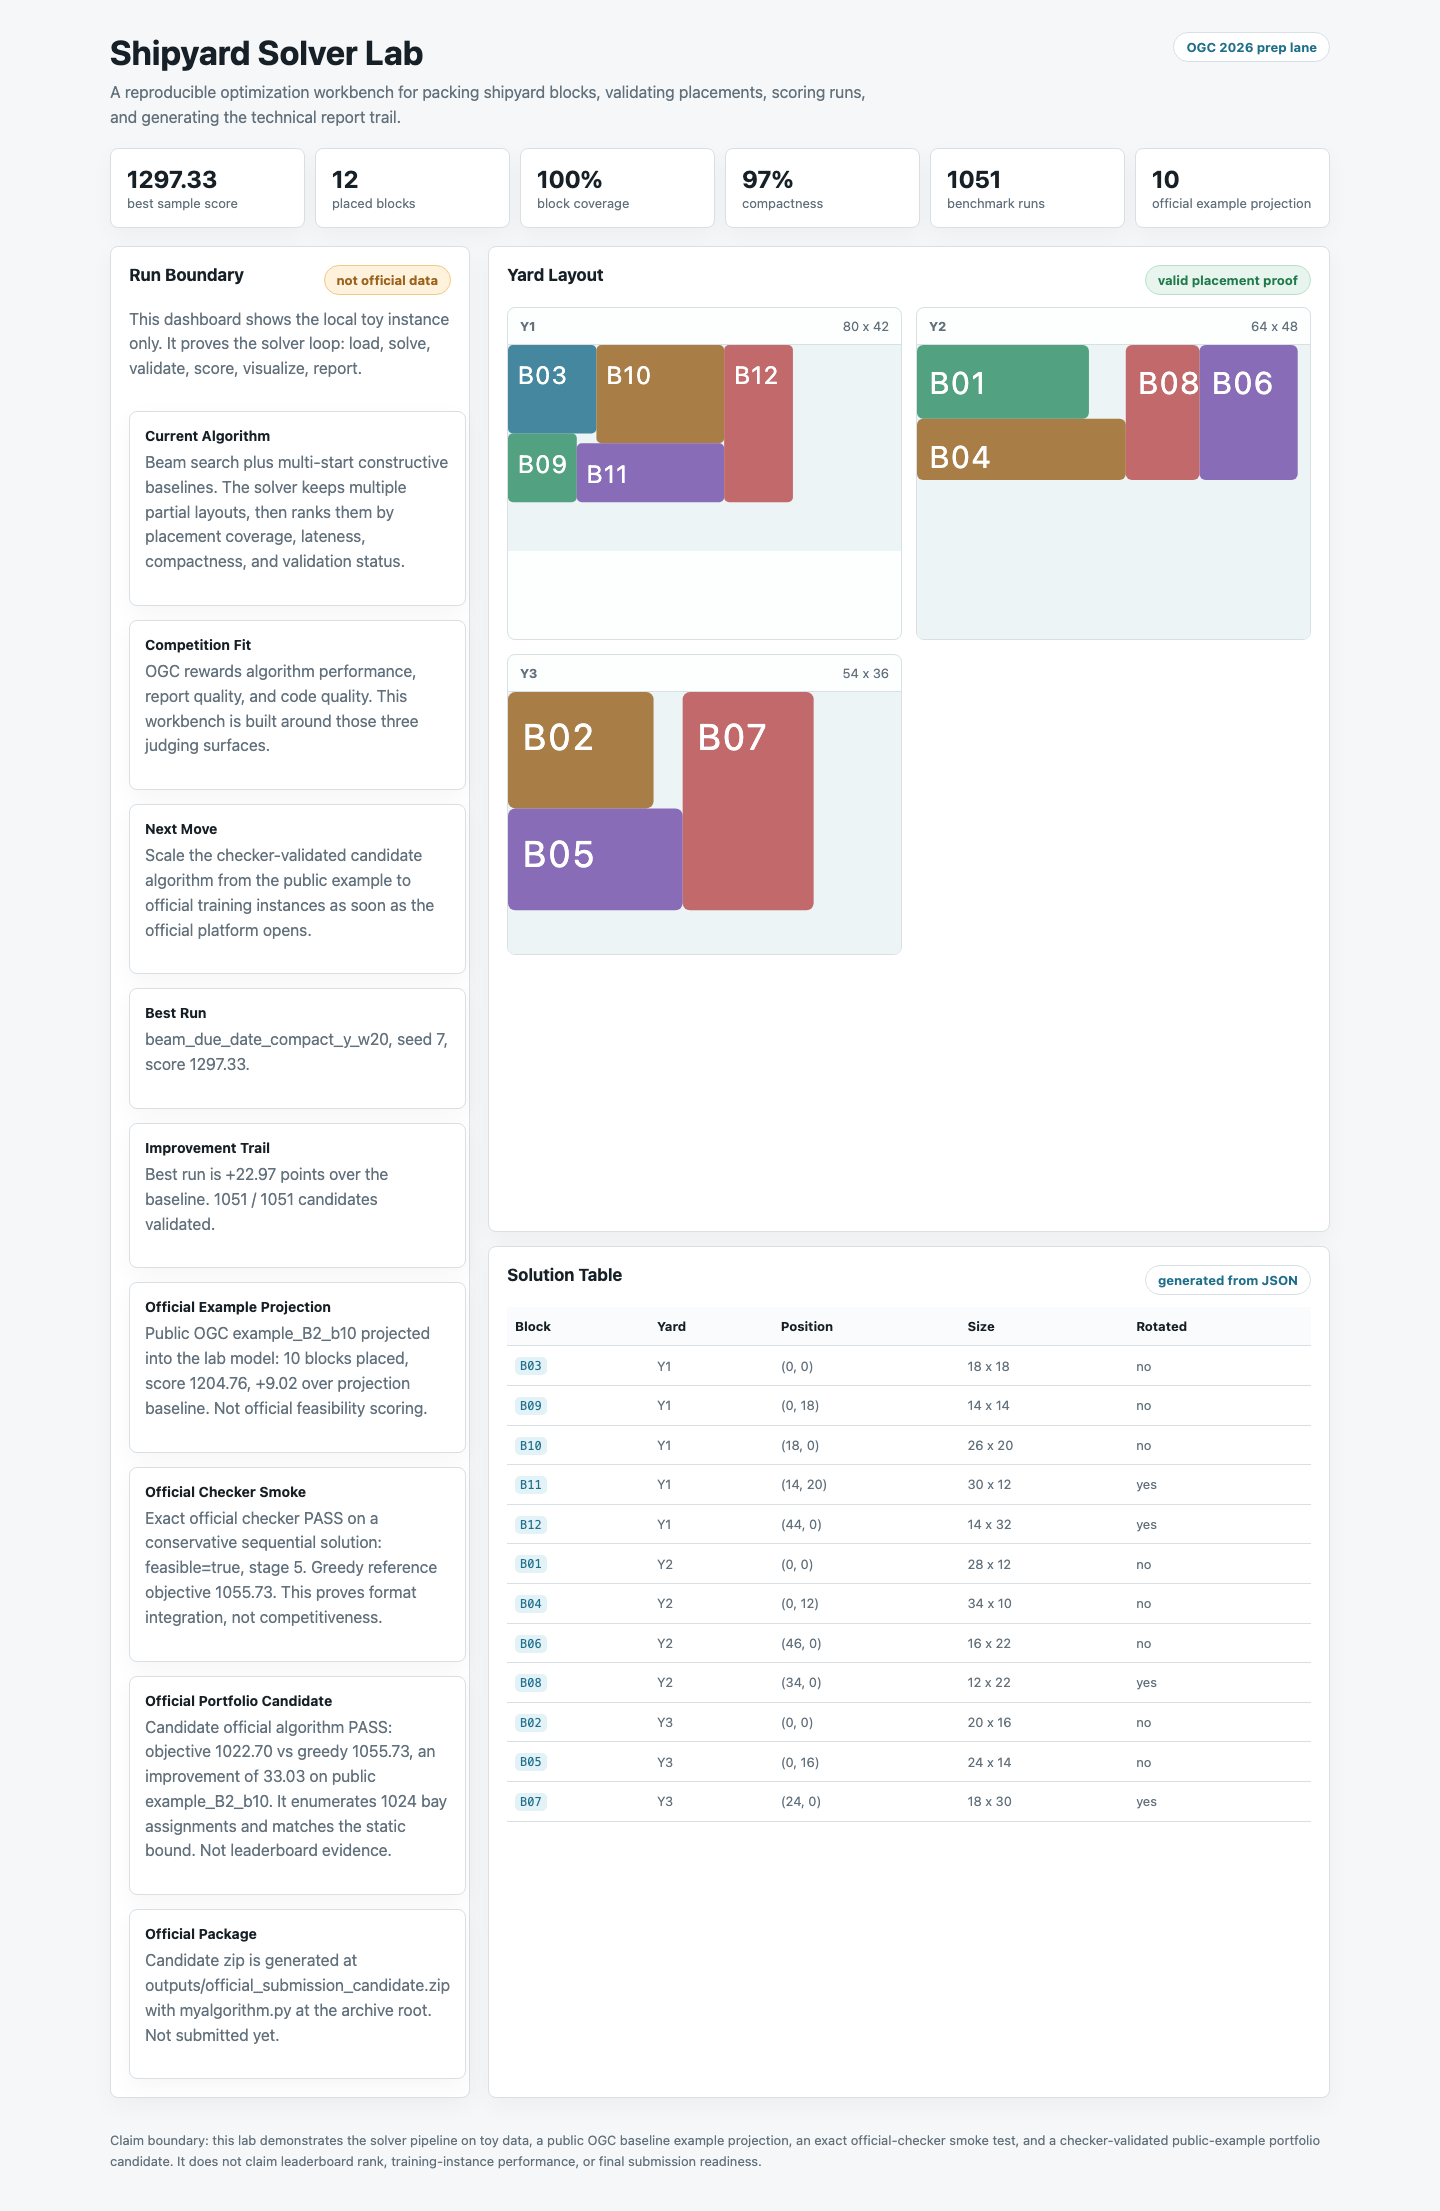
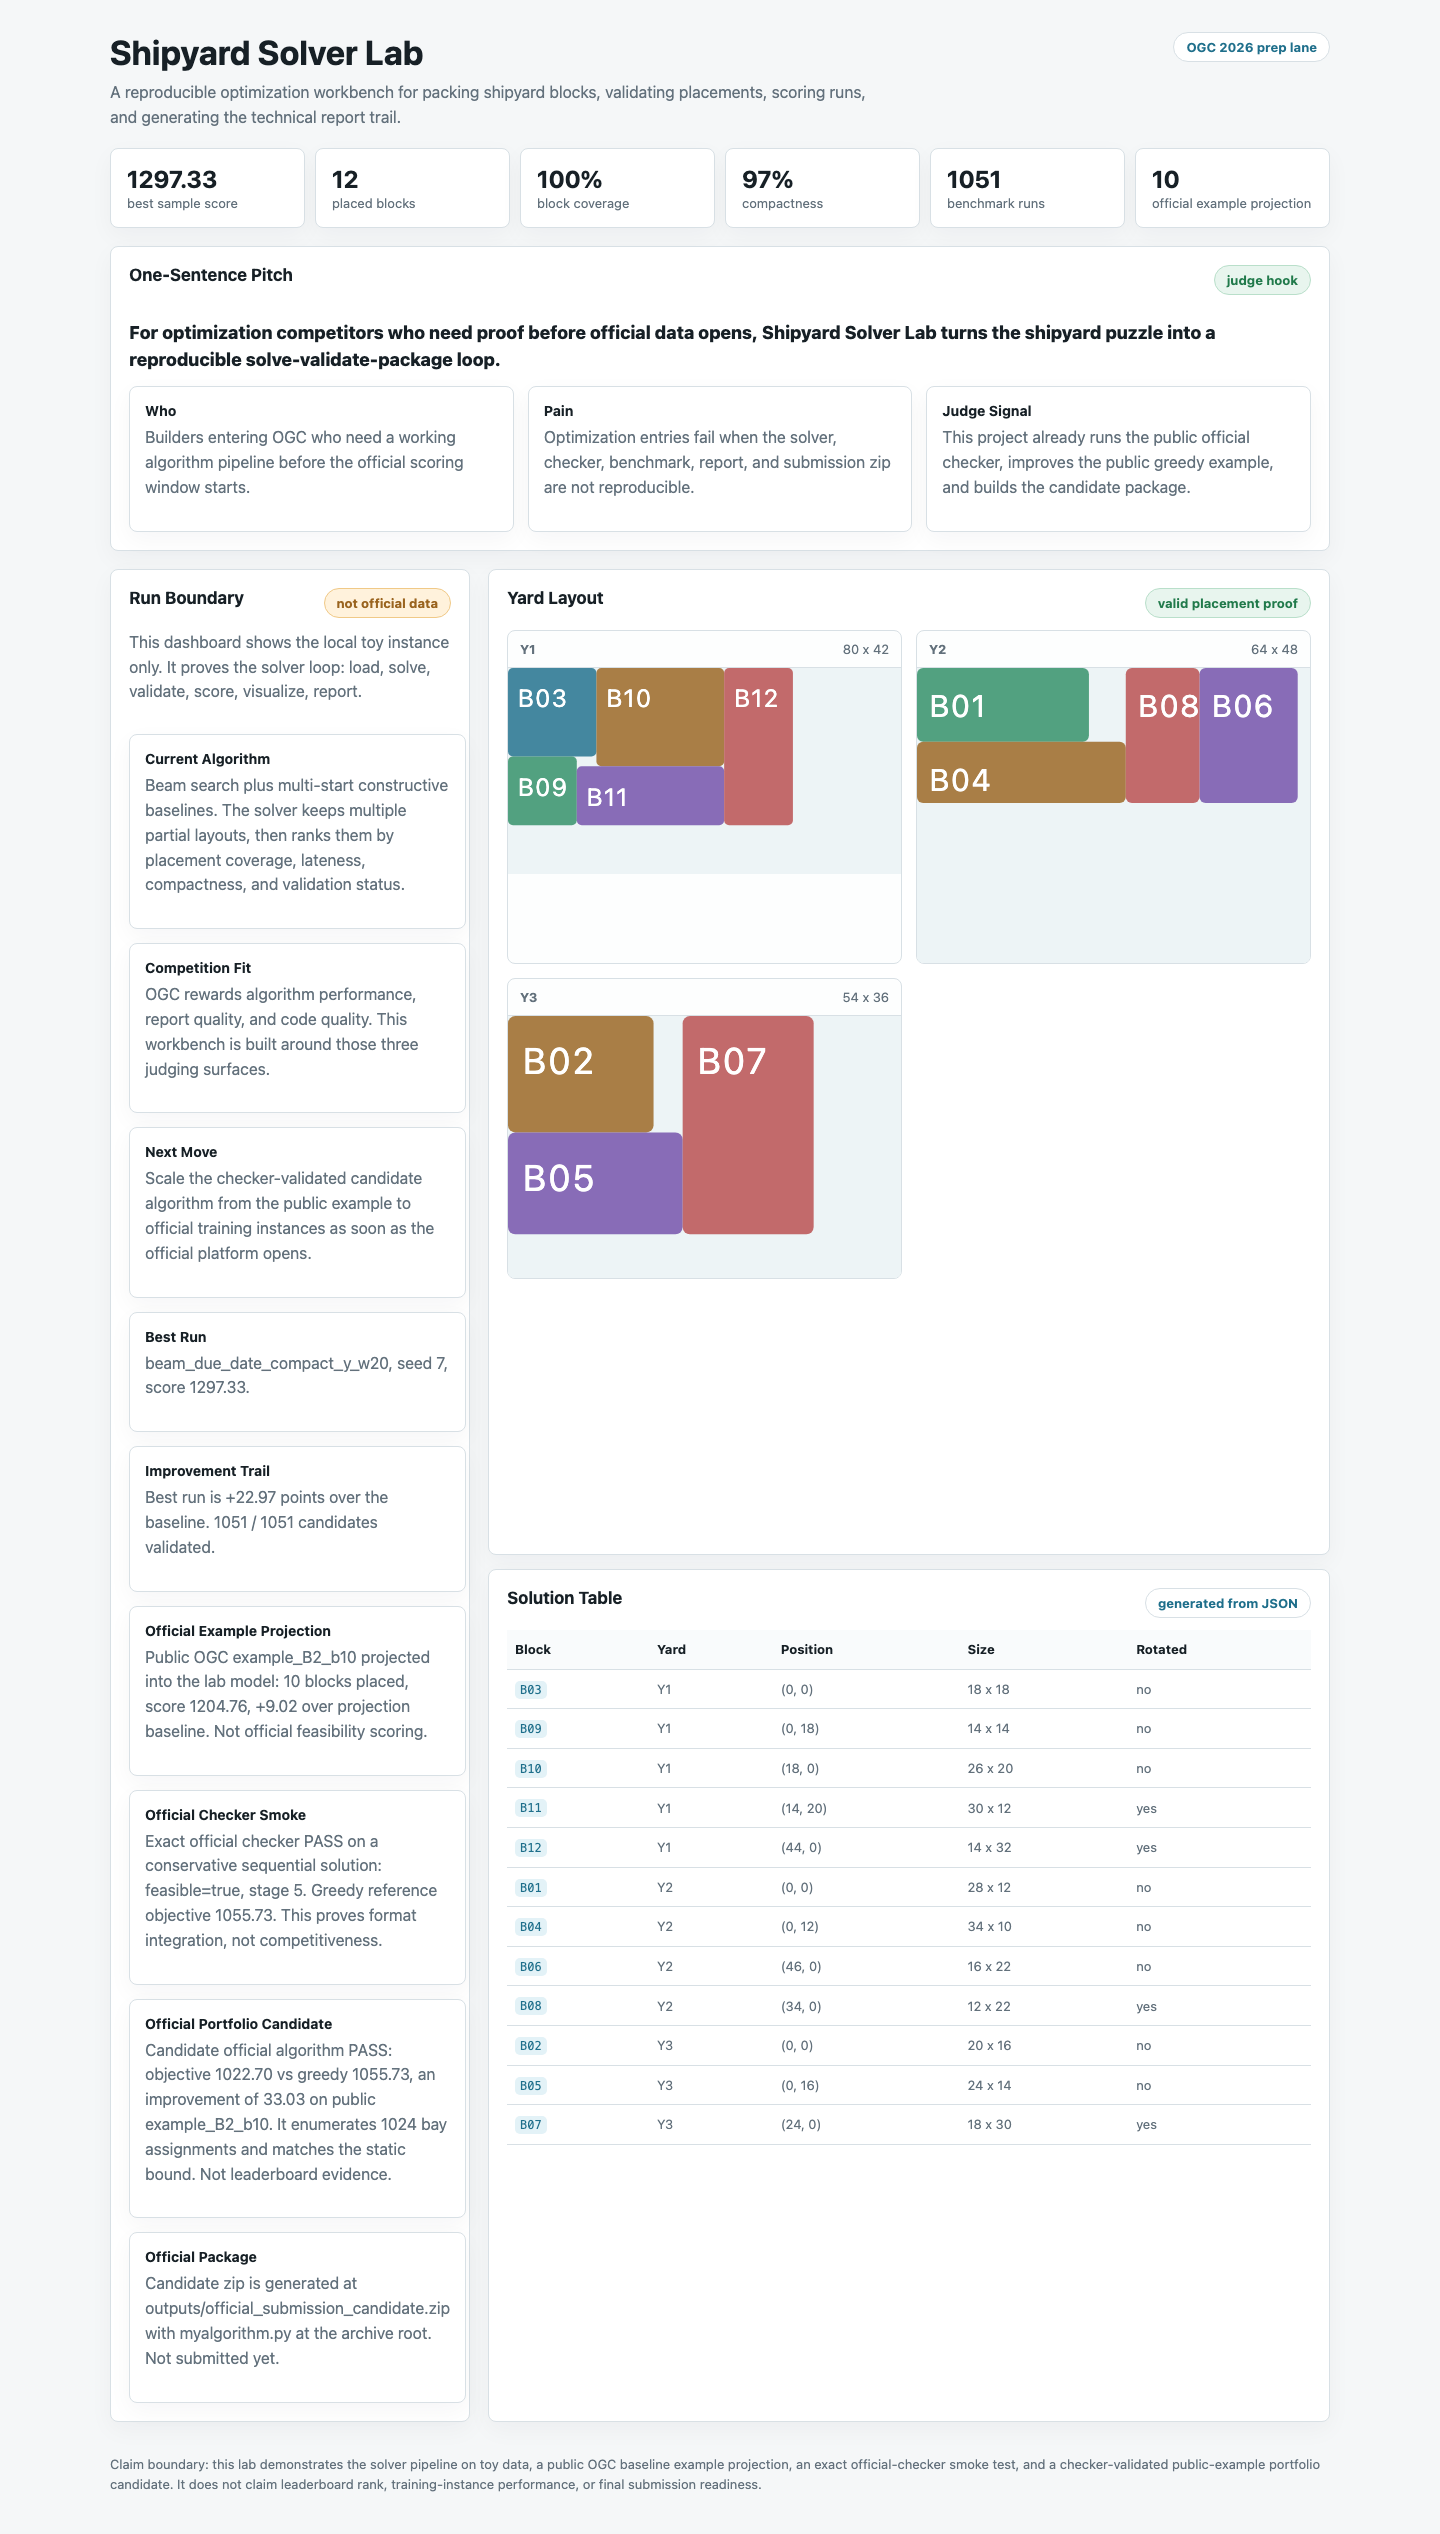
Add judge hook pitch

diff --git a/index.html b/index.html
@@ -67,6 +67,20 @@
       grid-template-columns: repeat(6, 1fr);
       gap: 10px;
     }
+    .pitch-strip {
+      grid-column: 1 / -1;
+      padding: 18px;
+      display: grid;
+      gap: 12px;
+    }
+    .pitch-line {
+      margin-bottom: 0;
+      color: var(--ink);
+      font-size: 18px;
+      font-weight: 800;
+      max-width: 1120px;
+    }
+    .grid-3 { display: grid; grid-template-columns: repeat(3, 1fr); gap: 14px; }
     .metric, .panel, .card {
       border: 1px solid var(--line);
       background: var(--surface);
@@ -124,7 +138,7 @@
     }
     @media (max-width: 920px) {
       header { flex-direction: column; }
-      main, .hero, .grid-2 { grid-template-columns: 1fr; }
+      main, .hero, .grid-2, .grid-3 { grid-template-columns: 1fr; }
     }
   </style>
 </head>
@@ -145,6 +159,19 @@
       <div class="metric"><strong id="utilMetric">--</strong><span>compactness</span></div>
       <div class="metric"><strong id="lateMetric">--</strong><span>benchmark runs</span></div>
       <div class="metric"><strong id="officialMetric">--</strong><span>official example projection</span></div>
+    </section>
+
+    <section class="panel pitch-strip" aria-label="one sentence pitch">
+      <div class="panel-title">
+        <h2>One-Sentence Pitch</h2>
+        <span class="pill good">judge hook</span>
+      </div>
+      <p class="pitch-line">For optimization competitors who need proof before official data opens, Shipyard Solver Lab turns the shipyard puzzle into a reproducible solve-validate-package loop.</p>
+      <div class="grid-3">
+        <div class="card"><h3>Who</h3><p>Builders entering OGC who need a working algorithm pipeline before the official scoring window starts.</p></div>
+        <div class="card"><h3>Pain</h3><p>Optimization entries fail when the solver, checker, benchmark, report, and submission zip are not reproducible.</p></div>
+        <div class="card"><h3>Judge Signal</h3><p>This project already runs the public official checker, improves the public greedy example, and builds the candidate package.</p></div>
+      </div>
     </section>
 
     <aside class="panel">

diff --git a/README.md b/README.md
@@ -17,6 +17,38 @@ The official challenge is "The Grand Shipyard Puzzle: Pack the Block, Beat the C
 - Official training instances: not released yet
 - Current solver: sample-instance beam search plus official-example projection smoke test plus a checker-validated official-format portfolio candidate
 
+## Judge Quick Read
+
+One-sentence pitch:
+
+```text
+For optimization competitors who need proof before official data opens, Shipyard Solver Lab turns the shipyard puzzle into a reproducible solve-validate-package loop.
+```
+
+Who it helps:
+
+```text
+Contest builders who need a solver, checker, benchmark, report, and submission package to move together.
+```
+
+Problem:
+
+```text
+An optimization idea is not enough. If the checker fails, the benchmark is not reproducible, or the package shape is wrong, the entry loses trust before scoring begins.
+```
+
+How it solves the problem:
+
+```text
+The repo connects solver output, official-example ingestion, official checker smoke tests, public-example portfolio search, reports, screenshots, narrated demo assets, and a candidate submission zip.
+```
+
+Judge signal:
+
+```text
+This is not a decorative dashboard. It is an operating loop that proves the team can iterate quickly and keep the official checker green.
+```
+
 ## Why This Exists
 
 Optimization contests are won by iteration speed:

diff --git a/SUBMISSION_PACKAGE.md b/SUBMISSION_PACKAGE.md
@@ -8,6 +8,16 @@ Shipyard Solver Lab
 
 Reproducible optimization workbench for packing shipyard blocks.
 
+## One-Sentence Pitch
+
+For optimization competitors who need proof before official data opens, Shipyard Solver Lab turns the shipyard puzzle into a reproducible solve-validate-package loop.
+
+## Who / Problem / How
+
+- Who: OGC builders who need solver progress, checker proof, benchmarks, reports, and package readiness in one loop.
+- Problem: an algorithm idea is not enough if the checker fails, outputs are not reproducible, or the submission package is shaped wrong.
+- How: the repo runs solver benchmarks, official-example projection, official checker smoke, public-example portfolio search, generated reports, screenshots, narrated demo assets, and a candidate official zip.
+
 ## Public Links
 
 - Live app: https://daideguchi.github.io/shipyard-solver-lab/
